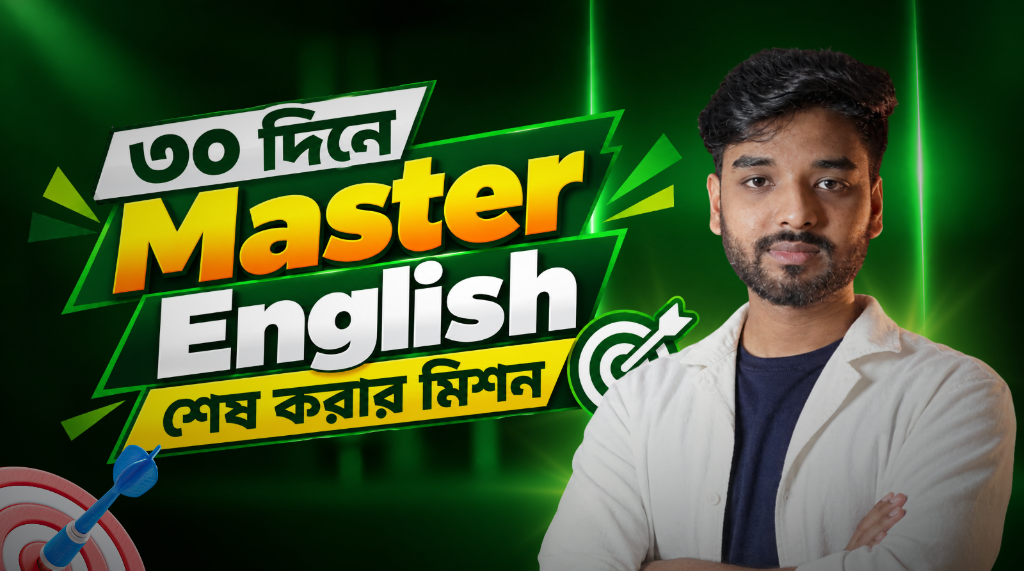
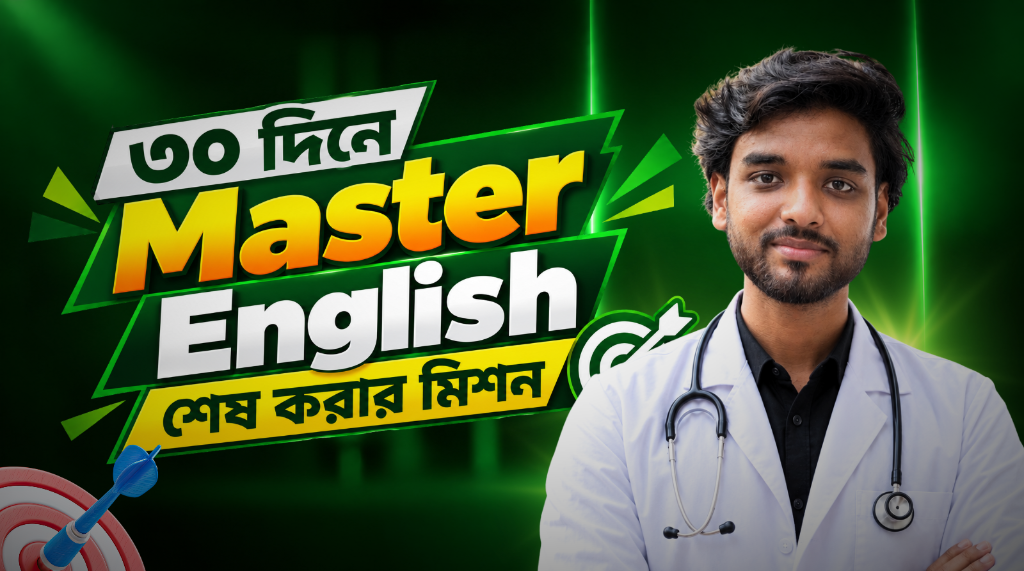
feat: set hero slider to exactly 2 thumbnails (Physics Finishing Touch & Master English)

Changed region(s): [[0.5, 0.0595, 1.0, 1.0]]

diff --git a/src/App.jsx b/src/App.jsx
@@ -477,6 +477,10 @@ export default function App() {
           parsed.homeStats = initialData.homeStats;
           modified = true;
         }
+        if (!Array.isArray(parsed.heroSlides) || parsed.heroSlides.length !== 2 || parsed.heroSlides.some(s => s.image?.includes('extra-info') || s.image?.includes('noun-day1'))) {
+          parsed.heroSlides = initialData.heroSlides;
+          modified = true;
+        }
         if (parsed.siteSettings && (!parsed.siteSettings.contactEmail || parsed.siteSettings.contactEmail.includes('support@eduhunters.com') || parsed.siteSettings.contactEmail.includes('gmial.com'))) {
           parsed.siteSettings.contactEmail = 'eduhuntersbd@gmail.com';
           modified = true;
@@ -587,6 +591,9 @@ export default function App() {
       const sanitized = { ...cloudData };
       if (Array.isArray(sanitized.homeStats) && sanitized.homeStats.some(s => s.value === '3000+' || s.value === '70000+')) {
         sanitized.homeStats = initialData.homeStats;
+      }
+      if (Array.isArray(sanitized.heroSlides) && sanitized.heroSlides.some(s => s.image?.includes('extra-info') || s.image?.includes('noun-day1'))) {
+        sanitized.heroSlides = initialData.heroSlides;
       }
 
       // Clean instructors resolution: filter Zenith legacy faculty and respect user edits

diff --git a/src/data/homeData.js b/src/data/homeData.js
@@ -1,22 +1,15 @@
 export const heroSlidesData = [
   {
     id: 1,
-    title: "Extra Info কভার মাত্র ৩ মিনিটে! - As Sami Islam",
-    image: "/slides/slide-extra-info.jpg",
-    link: "/courses",
+    title: "পদার্থবিজ্ঞান Finishing Touch Series - ১৫/১৫ পেতে এটুকুই যথেষ্ট",
+    image: "/slides/slide-physics-finishing-touch.png",
+    link: "/courses/physics-finishing-touch-series",
     type: "course"
   },
   {
     id: 2,
     title: "৩০ দিনে Master English শেষ করার মিশন",
     image: "/slides/slide-master-english-30days.png",
-    link: "/courses",
-    type: "course"
-  },
-  {
-    id: 3,
-    title: "Noun and Its Classification - মাত্র ৩০ দিনে (Day-1)",
-    image: "/slides/slide-noun-day1.png",
     link: "/courses",
     type: "course"
   }
